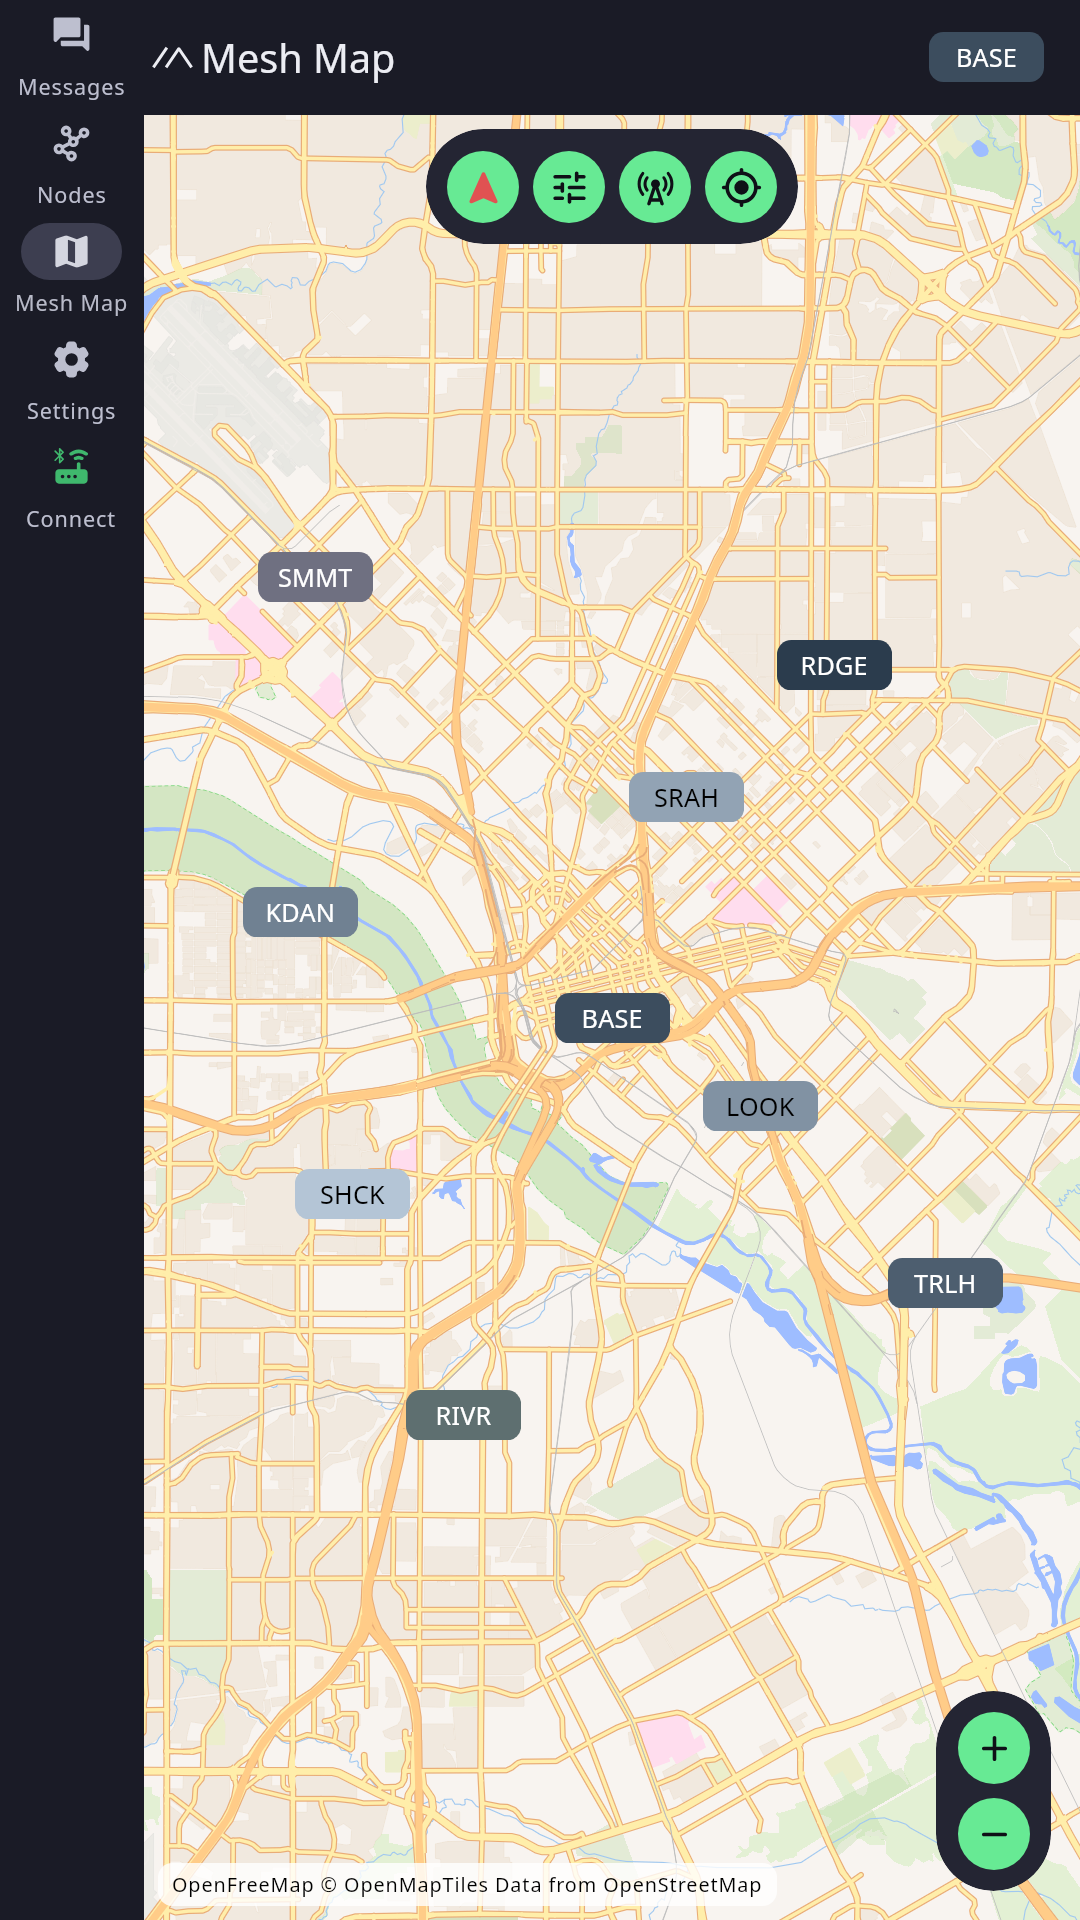
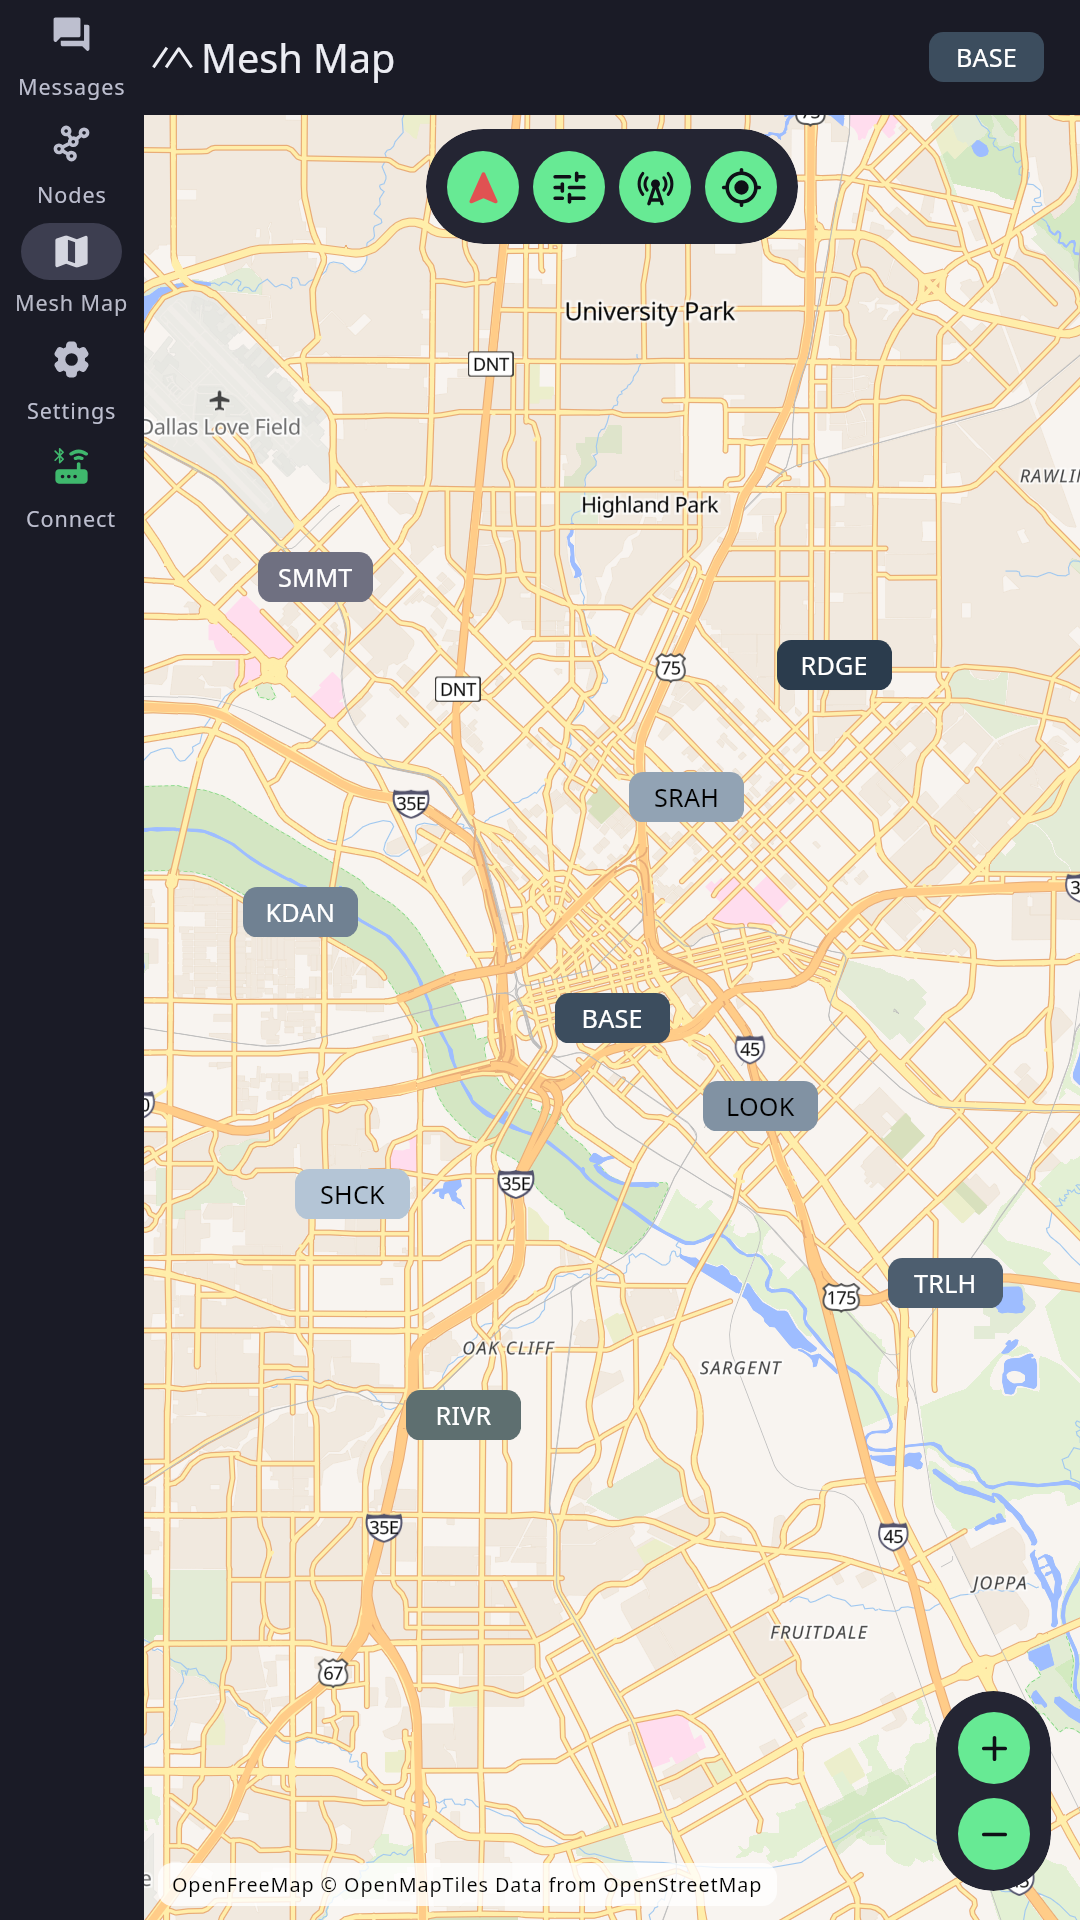
feat(store): keep the basemap's labels
A street map with no names is not the in-app experience Play asks for, and
the byte-identical rule it was traded for was ours, not a requirement. With
labels back, 24 of 25 shots reproduce exactly; the Chromebook map can differ
by a dozen antialiased pixels at label edges, which the docs now say and the
settle loop warns about instead of failing.

diff --git a/marketing-screenshots/src/main/kotlin/org/meshtastic/screenshot/marketing/MapSnapshot.kt b/marketing-screenshots/src/main/kotlin/org/meshtastic/screenshot/marketing/MapSnapshot.kt
@@ -28,11 +28,6 @@ import kotlinx.coroutines.runBlocking
 import kotlinx.coroutines.withContext
 import kotlinx.coroutines.withTimeout
 import kotlinx.io.files.Path
-import kotlinx.serialization.json.Json
-import kotlinx.serialization.json.JsonArray
-import kotlinx.serialization.json.JsonObject
-import kotlinx.serialization.json.jsonArray
-import kotlinx.serialization.json.jsonObject
 import org.maplibre.compose.camera.CameraPosition
 import org.maplibre.compose.map.LocalMapState
 import org.maplibre.compose.map.MapRuntime
@@ -43,7 +38,6 @@ import org.maplibre.compose.style.BaseStyle
 import org.maplibre.spatialk.geojson.Position
 import org.meshtastic.feature.map.maplibre.layers.NodeLayers
 import org.meshtastic.feature.map.maplibre.style.Basemaps
-import java.net.URI
 import java.nio.file.Files
 
 /** One capture: the map area in dp at the screen density, and the zoom the form factor asks for. */
@@ -100,23 +94,12 @@ internal object MapSnapshot {
     }
 
     /**
-     * The app's default basemap with its text layers removed. MapLibre packs glyphs into an atlas in the order the
-     * tiles that need them arrive, and the sub-texel position a glyph lands at moves its antialiased edge pixels by one
-     * level: the five maps came out in four different states over five runs, every one differing from the next by a
-     * dozen pixels at label edges, and no amount of settling can pick one. Without text layers there is no glyph atlas,
-     * and three runs are byte-identical on every form factor. Roads, water, parks and the node chips are unaffected. To
-     * put the labels back for a one-off (a website hero, say), use `BaseStyle.Uri(Basemaps.Liberty. styleUri)` here and
-     * accept that the file will not reproduce.
+     * The app's default basemap, labels included: a street map with no names is not the in-app experience Play asks
+     * for. MapLibre packs glyphs into an atlas in the order tiles arrive, so on the wide layouts a label's antialiased
+     * edge can land one level off between generations - a dozen pixels, invisible - which is why [captureUntilStable]
+     * warns rather than fails when two runtimes disagree, and why a regenerated wide map may not `cmp` the last one.
      */
-    private val baseStyle: BaseStyle by lazy {
-        val root = Json.parseToJsonElement(URI(Basemaps.Liberty.styleUri).toURL().readText()).jsonObject
-        val layers =
-            root.getValue("layers").jsonArray.filter { layer ->
-                val layout = layer.jsonObject["layout"]?.jsonObject
-                layout == null || "text-field" !in layout
-            }
-        BaseStyle.Json(Json.encodeToString(JsonObject.serializer(), JsonObject(root + ("layers" to JsonArray(layers)))))
-    }
+    private val baseStyle: BaseStyle = BaseStyle.Uri(Basemaps.Liberty.styleUri)
 
     private suspend fun MapRuntime.capture(area: MapArea, mesh: SampleMesh): ImageBitmap {
         // NodeLayers reads LocalMapState (for cluster clicks) and rasterizes chips with a TextMeasurer; the

diff --git a/docs/en/developer/testing.md b/docs/en/developer/testing.md
@@ -79,7 +79,7 @@ The store-listing screenshots (Play, F-Droid, IzzyOnDroid) are generated too, by
 ./gradlew :marketing-screenshots:updateMarketingScreenshots
 ```
 
-That writes `1_messages.png` … `5_channels.png` into five folders under `fastlane/metadata/android/en-US/images/`, deterministically (two runs are byte-identical):
+That writes `1_messages.png` … `5_channels.png` into five folders under `fastlane/metadata/android/en-US/images/`, reproducibly - the screens are byte-identical between runs; a wide map can differ by a few antialiased label-edge pixels, see below:
 
 | Folder | Size | Window | Uploaded by |
 | --- | --- | --- | --- |
@@ -89,7 +89,7 @@ That writes `1_messages.png` … `5_channels.png` into five folders under `fastl
 | `chromebookScreenshots/` | 1920×1080 @1x | expanded | hand, in Play Console |
 | `xrScreenshots/` | 1920×1200 @1x (8:5) | expanded | hand, in Play Console |
 
-The screens are composed in the app's own adaptive shell (`NavigationSuiteScaffold`, `ListDetailPaneScaffold`, `AdaptiveTwoPane`) with the same window-class calculations the app uses, so the form factors are data - a size, a density and a folder in `FormFactor.kt` - and every layout difference between them is the app's own. Neither `fastlane supply` nor the Play Developer API has a Chromebook or XR slot, so those two folders are ignored by supply and F-Droid and uploaded by hand. The basemap is the app's default Liberty style with its text layers removed: MapLibre packs glyphs into an atlas in tile-arrival order, which moves label edge pixels by one level from run to run, and nothing else in the map is affected.
+The screens are composed in the app's own adaptive shell (`NavigationSuiteScaffold`, `ListDetailPaneScaffold`, `AdaptiveTwoPane`) with the same window-class calculations the app uses, so the form factors are data - a size, a density and a folder in `FormFactor.kt` - and every layout difference between them is the app's own. Neither `fastlane supply` nor the Play Developer API has a Chromebook or XR slot, so those two folders are ignored by supply and F-Droid and uploaded by hand. The basemap is the app's default Liberty style, labels included. MapLibre packs glyphs into an atlas in tile-arrival order, so on the wide layouts a label's antialiased edge can land one level off between generations - a dozen pixels, invisible; the generator captures from fresh runtimes until two agree and warns if they never do, and a regenerated wide map may not `cmp` the previous one. Commit whichever run produced it.
 
 Locales: `-PmarketingLocales=en-US,de-DE` renders each locale in turn after switching the JVM default locale, the same switch the desktop app makes, so the app's strings, numbers and dates follow. Only `en-US` goes into `fastlane/` - everything there is read straight from git by F-Droid and IzzyOnDroid - and every other locale lands in `marketing-screenshots/build/marketing-screenshots/<locale>/images/` in the same layout, ready for a later `supply` run. The sample prose (the thread, the conversation previews, the framed variant's captions) is in `marketing-screenshots/src/main/composeResources/values/strings.xml`, which `crowdin.yml`'s first rule already globs like every other `composeResources` strings file, so a translated conversation needs no configuration change; until Crowdin fills a locale's `values-xx/strings.xml`, that locale's chat text stays English while the UI around it is translated.
 
